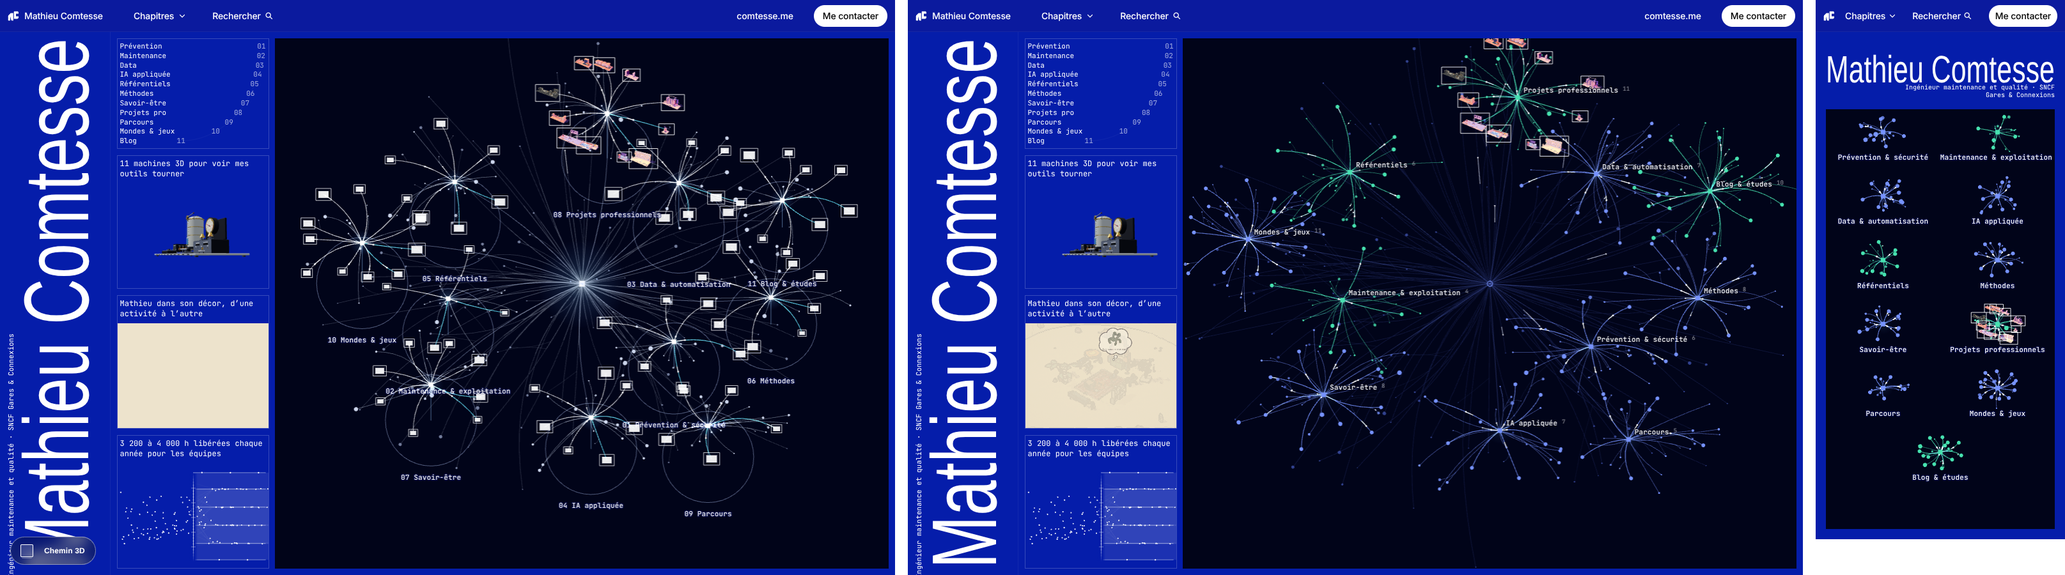
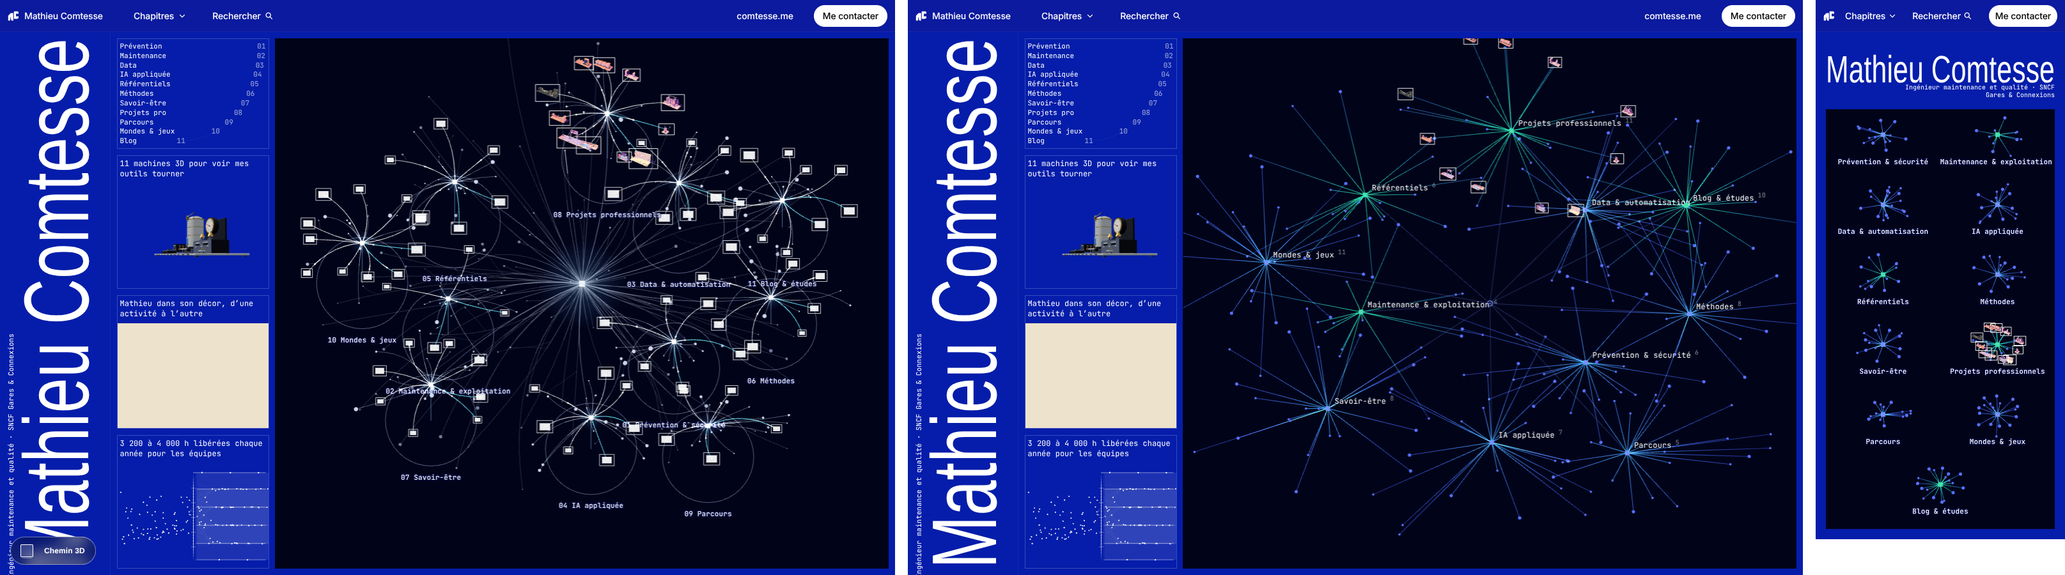
Graphe à plat recalé sur une observation directe de la référence à 1 400 × 900 : rayons droits et longs, dégradés, sans ramification ni halo, libellés 12 px, dérive lente des foyers ; tests des deux régimes ; moteur m27
Claude-Session: https://claude.ai/code/session_01BJ91hkuaPH9iCH1xUw74e3

Changed region(s): [[0.5882, 0.0622, 0.8669, 0.84], [0.8669, 0.2178, 0.9907, 0.9022]]

diff --git a/refonte/moteur.js b/refonte/moteur.js
@@ -322,6 +322,7 @@ export class Ciel {
       const N = e.noeuds, nb = N.length, cnt = this.cnt || (this.cnt = new Int16Array(16)); cnt.fill(0);
       for (let j = 0; j < nb; j++) {
         const n = N[j]; n.vis = false;
+        if (plat && (n.par || e.racine)) continue;                               // à plat : ni ramification ni gerbe centrale (observé sur la référence)
         let g = adouci((e.age - 0.15 - j * (e.racine ? 0.012 : 0.04) - (n.par ? 0.3 : 0)) / 0.8);
         if (n.par) { if (!n.par.vis) continue; g = Math.min(g, n.par.gg); }
         if (g <= 0) continue;
@@ -336,7 +337,8 @@ export class Ciel {
           if (this.pris && this.pris.noeud === n) { n.ox = souris.x - x; n.oy = souris.y - y; } else if (n.ox || n.oy) { n.ox *= retour; n.oy *= retour; if (Math.abs(n.ox) + Math.abs(n.oy) < 0.3) n.ox = n.oy = 0; }
           if (n.ox || n.oy) { x += n.ox; y += n.oy; }
           const dc = wc - c0, dr = wr - r0, len = Math.hypot(dc, dr) || 1;      // courbure dans le plan du sol, arche en hauteur : la branche est une vraie courbe de l'espace
-          cwC = c0 + dc * 0.5 - dr / len * n.cv * len; cwR = r0 + dr * 0.5 + dc / len * n.cv * len; cwH = (h0 + wh) * 0.5 + n.ar * len * 0.35;
+          const kc = plat ? 0 : 1;                                              // à plat les rayons sont droits (observé) ; courbure et arche en 3D
+          cwC = c0 + dc * 0.5 - dr / len * n.cv * kc * len; cwR = r0 + dr * 0.5 + dc / len * n.cv * kc * len; cwH = (h0 + wh) * 0.5 + n.ar * kc * len * 0.35;
           const Cq = proj(cwC, cwR, cwH);
           cx = Cq ? F.x + (Cq.x - F.x) * g : (F.x + x) / 2; cy = Cq ? F.y + (Cq.y - F.y) * g : (F.y + y) / 2;
           if (n.ox || n.oy) { cx += n.ox * 0.5; cy += n.oy * 0.5; }
@@ -367,10 +369,11 @@ export class Ciel {
       }
       /* 3. rayons fins et ramifications, par niveau et par classe de rendu : un seul tracé par lot, en mélange additif (le centre des foyers s'éclaire par recouvrement) */
       ctx.globalCompositeOperation = 'lighter';
+      const degrade = (m) => { const g = ctx.createRadialGradient(F.x, F.y, 0, F.x, F.y, Math.max(40, R * k)); g.addColorStop(0, `rgba(${vert ? '40,225,170' : '70,175,255'},${Math.min(1, 0.95 * m).toFixed(2)})`); g.addColorStop(0.45, `rgba(${vert ? '40,170,200' : '70,110,255'},${Math.min(1, 0.7 * m).toFixed(2)})`); g.addColorStop(1, `rgba(70,90,255,${Math.min(1, 0.5 * m).toFixed(2)})`); return g; };
       const BASE = e.racine ? (plat ? [0, 0.16, 0.1, 0.07] : [0, 0.2, 0.13, 0.09]) : plat ? [0, 0.55, 0.4, 0.3] : [0, 0.4, 0.29, 0.21], LW = [0, 0.8, 0.7, 0.6];   /* rayons fins et discrets : le centre des foyers ne sature pas */
       for (let lv = 3; lv >= 1; lv--) for (let cl = 0; cl < 4; cl++) {
         if (!cnt[lv * 4 + cl]) continue;
-        ctx.strokeStyle = `rgba(${plat ? (e.racine ? '96,124,255' : TE) : '225,238,255'},${Math.min(1, BASE[lv] * MULT[cl] * kE).toFixed(3)})`; ctx.lineWidth = LW[lv] * (cl === 2 ? 1.5 : 1); ctx.beginPath();
+        ctx.strokeStyle = plat ? degrade(MULT[cl] * kE) : `rgba(225,238,255,${Math.min(1, BASE[lv] * MULT[cl] * kE).toFixed(3)})`; ctx.lineWidth = (plat ? 1 : LW[lv]) * (cl === 2 ? 1.5 : 1); ctx.beginPath();
         for (let j = 0; j < nb; j++) { const n = N[j]; if (n.ed || !n.vis || n.niveau !== lv || n.cl !== cl) continue; ctx.moveTo(n.x0, n.y0); ctx.quadraticCurveTo(n.cx, n.cy, n.x1, n.y1); }
         ctx.stroke();
       }
@@ -385,11 +388,11 @@ export class Ciel {
         const actif = focus === n, gr = ctx.createLinearGradient(n.x0, n.y0, n.x1, n.y1), cy = j < 2, m = MULT[n.cl] * (n.cl === 0 ? kE : 1);
         gr.addColorStop(0, actif ? 'rgba(255,255,255,1)' : plat ? `rgba(${TE},${Math.min(1, 0.95 * m).toFixed(2)})` : cy ? `rgba(120,235,255,${Math.min(1, 1 * m).toFixed(2)})` : `rgba(255,255,255,${Math.min(1, 0.95 * m).toFixed(2)})`);
         gr.addColorStop(1, actif ? 'rgba(255,255,255,1)' : plat ? `rgba(${TE},${Math.min(1, 0.7 * m).toFixed(2)})` : cy ? `rgba(95,230,255,${Math.min(1, 0.7 * m).toFixed(2)})` : `rgba(255,255,255,${Math.min(1, 0.55 * m).toFixed(2)})`);
-        ctx.strokeStyle = gr; ctx.lineWidth = actif ? 2.4 : actifC ? 1.4 : 1.15; ctx.beginPath(); ctx.moveTo(n.x0, n.y0); ctx.quadraticCurveTo(n.cx, n.cy, n.x1, n.y1); ctx.stroke();
+        ctx.strokeStyle = plat && !actif ? degrade(m) : gr; ctx.lineWidth = actif ? 2.4 : plat ? 1 : actifC ? 1.4 : 1.15; ctx.beginPath(); ctx.moveTo(n.x0, n.y0); ctx.quadraticCurveTo(n.cx, n.cy, n.x1, n.y1); ctx.stroke();
         if (!compact && libre && !this.pris && souris.x > -1e3) { const d = this.distanceCourbe(n, souris.x, souris.y); if (d < dBranche && n.cl !== 3) { dBranche = d; brancheMeilleure = { noeud: n, etoile: e }; } }
       }
       /* 5. impulsions : le long des courbes réelles, transmises aux ramifications */
-      if (libre) for (let j = 0; j < nb; j++) {
+      if (libre && !plat) for (let j = 0; j < nb; j++) {                       // aucune impulsion visible à plat sur les captures de la référence
         const n = N[j]; if (!n.vis || n.par || n.gg < 1 || !(n.ed || n.pul)) continue;
         const q = (tt * 0.3 * n.vit + n.phase / 6.283) % 1;
         this.impulsion(ctx, n, q / 0.75);
@@ -398,8 +401,8 @@ export class Ciel {
       /* 6. extrémités des ramifications (points) */
       for (let lv = 1; lv <= 3; lv++) for (let cl = 0; cl < 4; cl++) {
         if (!cnt[lv * 4 + cl]) continue;
-        ctx.globalAlpha = A * Math.min(1, MULT[cl] * kE); ctx.fillStyle = plat ? (e.racine ? 'rgba(96,124,255,.5)' : `rgba(${TE},${lv === 1 ? 1 : 0.8})`) : e.racine ? 'rgba(200,215,255,.55)' : lv === 1 ? 'rgba(223,233,255,.9)' : lv === 2 ? 'rgba(223,233,255,.75)' : 'rgba(223,233,255,.6)'; ctx.beginPath();
-        for (let j = 0; j < nb; j++) { const n = N[j]; if (n.ed || !n.vis || n.niveau !== lv || n.cl !== cl) continue; const r = (n.taille || 1.6) * (e.racine ? 0.8 : 1) * Math.min(1.2, ech) * (lv === 1 ? 1 : lv === 2 ? 0.8 : 0.6); ctx.moveTo(n.x1 + r, n.y1); ctx.arc(n.x1, n.y1, r, 0, 6.283); }
+        ctx.globalAlpha = A * Math.min(1, MULT[cl] * kE); ctx.fillStyle = plat ? 'rgb(88,112,255)' : e.racine ? 'rgba(200,215,255,.55)' : lv === 1 ? 'rgba(223,233,255,.9)' : lv === 2 ? 'rgba(223,233,255,.75)' : 'rgba(223,233,255,.6)'; ctx.beginPath();
+        for (let j = 0; j < nb; j++) { const n = N[j]; if (n.ed || !n.vis || n.niveau !== lv || n.cl !== cl) continue; const r = plat ? 1.9 : (n.taille || 1.6) * (e.racine ? 0.8 : 1) * Math.min(1.2, ech) * (lv === 1 ? 1 : lv === 2 ? 0.8 : 0.6); ctx.moveTo(n.x1 + r, n.y1); ctx.arc(n.x1, n.y1, r, 0, 6.283); }
         ctx.fill();
       }
       ctx.globalAlpha = A;
@@ -408,15 +411,15 @@ export class Ciel {
         const n = N[j]; if (!n.ed || !n.vis) continue;
         const x = n.x1, y = n.y1, voile = n.cl === 3 ? 0.12 : 1;
         ctx.globalAlpha = voile * A;
-        const kv = 0.72 + (n.phase / 6.283) * 0.8, im = this.image(n.ed.image), w = (im ? 30 : 18) * kv * ech * (compact ? 0.62 : 1), h = (im ? 21 : 14) * kv * ech * (compact ? 0.62 : 1);
+        const kv = 0.72 + (n.phase / 6.283) * 0.8, im = this.image(n.ed.image), kp = 0.9 + 0.25 * (n.phase / 6.283), w = plat ? 22 * kp * (compact ? 0.8 : 1) : (im ? 30 : 18) * kv * ech * (compact ? 0.62 : 1), h = plat ? 17 * kp * (compact ? 0.8 : 1) : (im ? 21 : 14) * kv * ech * (compact ? 0.62 : 1);
         if (im) { ctx.drawImage(im, x - w / 2, y - h / 2, w, h); ctx.strokeStyle = 'rgba(255,255,255,.9)'; ctx.lineWidth = 1; ctx.strokeRect(x - w / 2, y - h / 2, w, h); }
-        else if (plat) { const actif = focus === n; ctx.fillStyle = actif ? '#fff' : `rgb(${TE})`; ctx.beginPath(); ctx.arc(x, y, actif ? 4.5 : 3, 0, 6.283); ctx.fill(); }   // à plat, un contenu sans image est un point ; il reste saisissable
+        else if (plat) { const actif = focus === n; ctx.fillStyle = actif ? '#fff' : 'rgb(88,112,255)'; ctx.beginPath(); ctx.arc(x, y, actif ? 4.5 : 2.6, 0, 6.283); ctx.fill(); }   // à plat, un contenu sans image est un point ; il reste saisissable
         else { ctx.strokeStyle = 'rgba(255,255,255,.75)'; ctx.lineWidth = 1; ctx.strokeRect(x - w / 2, y - h / 2, w, h); ctx.fillStyle = 'rgba(255,255,255,.92)'; ctx.fillRect(x - w / 3, y - h * 0.29, w * 2 / 3, h * 0.58); }
         if (voile === 1) { cibles.push({ x, y, noeud: n, etoile: e }); const d = Math.hypot(x - souris.x, y - souris.y); if (d < dSurvol) { dSurvol = d; survol = { noeud: n, x, y, etoile: e }; } }
         ctx.globalAlpha = A;
       }
       /* foyer et libellé */
-      if (!(plat && e.racine)) { const kH = plat ? 0.45 : 1, halo = Math.max(16, Math.min(70, (e.racine ? 0.2 : 0.17) * R * k)) * (actifC ? 1.25 : 1), gr = ctx.createRadialGradient(F.x, F.y, 0, F.x, F.y, halo); gr.addColorStop(0, `rgba(210,240,255,${Math.min(1, 0.4 * kE * kH).toFixed(2)})`); gr.addColorStop(0.35, `rgba(120,190,255,${Math.min(1, 0.14 * kE * kH).toFixed(2)})`); gr.addColorStop(1, 'rgba(80,140,255,0)'); ctx.globalCompositeOperation = 'lighter'; ctx.fillStyle = gr; ctx.beginPath(); ctx.arc(F.x, F.y, halo, 0, 6.283); ctx.fill(); ctx.globalCompositeOperation = 'source-over'; }
+      if (!plat) { const kH = 1, halo = Math.max(16, Math.min(70, (e.racine ? 0.2 : 0.17) * R * k)) * (actifC ? 1.25 : 1), gr = ctx.createRadialGradient(F.x, F.y, 0, F.x, F.y, halo); gr.addColorStop(0, `rgba(210,240,255,${Math.min(1, 0.4 * kE * kH).toFixed(2)})`); gr.addColorStop(0.35, `rgba(120,190,255,${Math.min(1, 0.14 * kE * kH).toFixed(2)})`); gr.addColorStop(1, 'rgba(80,140,255,0)'); ctx.globalCompositeOperation = 'lighter'; ctx.fillStyle = gr; ctx.beginPath(); ctx.arc(F.x, F.y, halo, 0, 6.283); ctx.fill(); ctx.globalCompositeOperation = 'source-over'; }
       const cote = (e.racine ? 9 : e.parent ? 7 : 9) * Math.min(1.25, Math.max(0.8, ech));
       if (plat && e.racine) { ctx.strokeStyle = 'rgba(125,152,255,.95)'; ctx.lineWidth = 1.2; ctx.beginPath(); ctx.arc(F.x, F.y, 4.2, 0, 6.283); ctx.stroke(); }   // foyer central : simple anneau
       else { ctx.fillStyle = plat ? `rgb(${TE})` : '#fff'; ctx.fillRect(F.x - cote / 2, F.y - cote / 2, cote, cote); }
@@ -425,9 +428,9 @@ export class Ciel {
         ctx.globalAlpha = a * A; ctx.fillStyle = '#fff'; ctx.strokeStyle = 'rgba(0,10,90,.55)'; ctx.lineWidth = 3; ctx.lineJoin = 'round';
         if (plat && e.parent && !compact) {                                      // à plat : nom contre le foyer, suivi du nombre de contenus en gris
           const nbEd = e.noeuds.filter((q) => q.ed).length;
-          ctx.font = '500 11px "JetBrains Mono",ui-monospace,monospace'; ctx.textAlign = 'left'; ctx.strokeStyle = 'rgba(1,4,25,.75)';
-          const l = ctx.measureText(e.label).width, tx = Math.min(F.x + cote / 2 + 6, W - l - 22), ty = F.y - cote / 2 - 4; ctx.strokeText(e.label, tx, ty); ctx.fillText(e.label, tx, ty);
-          ctx.font = '500 9px "JetBrains Mono",ui-monospace,monospace'; ctx.fillStyle = 'rgba(255,255,255,.5)'; ctx.fillText(String(nbEd), tx + l + 7, ty - 3);
+          ctx.font = '400 12px "JetBrains Mono",ui-monospace,monospace'; ctx.textAlign = 'left'; ctx.strokeStyle = 'rgba(1,4,25,.75)';
+          const l = ctx.measureText(e.label).width, tx = Math.min(F.x + cote / 2 + 7, W - l - 22), ty = F.y - cote / 2 - 4; ctx.strokeText(e.label, tx, ty); ctx.fillText(e.label, tx, ty);
+          ctx.font = '400 10px "JetBrains Mono",ui-monospace,monospace'; ctx.fillStyle = 'rgba(255,255,255,.5)'; ctx.fillText(String(nbEd), tx + l + 6, ty - 5);
           e.libelleEcran = { x: Math.round(tx), y: Math.round(ty), texte: e.label };
         } else if (e.sol) {                                                      // étoile posée : numéro et nom sous le cercle
           const bas = proj(c0, r0 + R * 0.7, 0) || F, texte = compact ? e.label : (e.num ? e.num + ' ' : '') + e.label;   // grille (petit écran) : le nom seul, sous le foyer

diff --git a/index.html b/index.html
@@ -557,7 +557,7 @@ html:not(.cv-parity-active) .cv-legacy .pc-hublot{margin-block:56px 96px}
   </div>
   <p class="pc-end">Fin du parcours · page W = 1 000 px</p>
 </div></article></div></div></div></section></div></div></main></div><!-- rmx:h:hfbc28820 --><!-- /rmx:h --></div><!-- rmx:h:h9cc3f896 --><span popover="manual" aria-hidden="true" class="shared-tooltip"><span class="shared-tooltip__bubble"><span class="shared-tooltip__track"><span class="block"></span><span class="pointer-events-none absolute inset-0 block select-none opacity-0"></span></span><span class="shared-tooltip__measure"></span></span></span><!-- /rmx:h --><!-- rmx:h:h710f11a5 --><span hidden=""></span><!-- /rmx:h --></div></div><script type="module">var cvLowEnd=matchMedia('(pointer:coarse)').matches||(navigator.hardwareConcurrency||8)<=4||(navigator.deviceMemory||8)<=4;   /* profil léger : résolution réduite, 30 images/s */
-import('./refonte/hero-graph.js?v=m11').then(m=>m.demarre(cvChapterRecords)).catch(e=>console.warn('graphe accueil',e));
+import('./refonte/hero-graph.js?v=m12').then(m=>m.demarre(cvChapterRecords)).catch(e=>console.warn('graphe accueil',e));
 const cvChapterRecords=[{"id":"agentic","index":0,"name":"Prévention & sécurité","colour":"#051DAA","cards":[{"title":"Analyse de risques","handle":"cv-0-0-analyse-de-risques","image":null},{"title":"Coactivité","handle":"cv-0-1-coactivite","image":null},{"title":"Plans de prévention","handle":"cv-0-2-plans-de-prevention","image":null},{"title":"Suivi des écarts","handle":"cv-0-3-suivi-des-ecarts","image":null},{"title":"Actions correctives","handle":"cv-0-4-actions-correctives","image":null},{"title":"Certification NEBOSH","handle":"cv-0-5-certification-nebosh","image":null}]},{"id":"sidekick","index":1,"name":"Maintenance & exploitation","colour":"#7000A9","cards":[{"title":"Suivi réglementaire","handle":"cv-1-0-suivi-reglementaire","image":null},{"title":"Vigilance équipements","handle":"cv-1-1-vigilance-equipements","image":null},{"title":"Pilotage des échéances","handle":"cv-1-2-pilotage-des-echeances","image":null},{"title":"Fiabilisation des données","handle":"cv-1-3-fiabilisation-des-donnees","image":null}]},{"id":"online","index":2,"name":"Data & automatisation","colour":"#B2005B","cards":[{"title":"Power BI","handle":"cv-2-0-power-bi","image":null},{"title":"Power Automate","handle":"cv-2-1-power-automate","image":null},{"title":"Excel","handle":"cv-2-2-excel","image":null},{"title":"HTML / JavaScript","handle":"cv-2-3-html-javascript","image":null},{"title":"Extraction PDF","handle":"cv-2-4-extraction-pdf","image":null},{"title":"OCR","handle":"cv-2-5-ocr","image":null},{"title":"JSON","handle":"cv-2-6-json","image":null}]},{"id":"merchandising","index":3,"name":"IA appliquée","colour":"#B03400","cards":[{"title":"Agents LLM","handle":"cv-3-0-agents-llm","image":null},{"title":"Compétences en Markdown","handle":"cv-3-1-competences-en-markdown","image":null},{"title":"Connecteurs & MCP","handle":"cv-3-2-connecteurs-mcp","image":null},{"title":"Mémoire sous Obsidian","handle":"cv-3-3-memoire-sous-obsidian","image":null},{"title":"Modèles à score de confiance","handle":"cv-3-4-modeles-a-score-de-confiance","image":null},{"title":"Serveur interne & LLM open source","handle":"cv-3-5-serveur-interne-llm-open-source","image":null},{"title":"Orchestration multi-modèles","handle":"cv-3-6-orchestration-multi-modeles","image":null}]},{"id":"retail","index":4,"name":"Référentiels","colour":"#051DAA","cards":[{"title":"ISO 9001","handle":"cv-4-0-iso-9001","image":null},{"title":"ISO 45001","handle":"cv-4-1-iso-45001","image":null},{"title":"ISO 14001","handle":"cv-4-2-iso-14001","image":null},{"title":"ISO 22301","handle":"cv-4-3-iso-22301","image":null},{"title":"ISO 27001 / 27002","handle":"cv-4-4-iso-27001-27002","image":null},{"title":"ISO 19443","handle":"cv-4-5-iso-19443","image":null}]},{"id":"payments","index":5,"name":"Méthodes","colour":"#00632E","cards":[{"title":"Lean Six Sigma Yellow Belt","handle":"cv-5-0-lean-six-sigma-yellow-belt","image":null},{"title":"Green Belt","handle":"cv-5-1-green-belt","image":null},{"title":"DMAIC","handle":"cv-5-2-dmaic","image":null},{"title":"SIPOC","handle":"cv-5-3-sipoc","image":null},{"title":"PDCA","handle":"cv-5-4-pdca","image":null},{"title":"Audit terrain","handle":"cv-5-5-audit-terrain","image":null},{"title":"Analyse des écarts","handle":"cv-5-6-analyse-des-ecarts","image":null},{"title":"Amélioration continue","handle":"cv-5-7-amelioration-continue","image":null}]},{"id":"operations","index":6,"name":"Savoir-être","colour":"#B2005B","cards":[{"title":"Curiosité","handle":"cv-6-0-curiosite","image":null},{"title":"Rigueur","handle":"cv-6-1-rigueur","image":null},{"title":"Autonomie","handle":"cv-6-2-autonomie","image":null},{"title":"Esprit critique","handle":"cv-6-3-esprit-critique","image":null},{"title":"Goût du détail","handle":"cv-6-4-gout-du-detail","image":null},{"title":"Détermination","handle":"cv-6-5-determination","image":null},{"title":"Apprendre en autonomie","handle":"cv-6-6-apprendre-en-autonomie","image":null},{"title":"Transmission","handle":"cv-6-7-transmission","image":null}]},{"id":"shop","index":7,"name":"Projets professionnels","colour":"#7000A9","cards":[{"title":"Point financier · Power Automate","handle":"cv-7-0-point-financier-power-automate","image":"https://comtesse.me/assets/figures/finance-light.webp"},{"title":"VRE · traitement par VM","handle":"cv-7-1-vre-traitement-par-vm","image":"https://comtesse.me/assets/figures/vm-light.webp"},{"title":"Reporteur Q18","handle":"cv-7-2-reporteur-q18","image":"https://comtesse.me/assets/figures/moteur-light.webp"},{"title":"Power Automate · chaîne des PP","handle":"cv-7-3-power-automate-chaine-des-pp","image":"https://comtesse.me/assets/figures/pp-light.webp"},{"title":"CERFA v3","handle":"cv-7-4-cerfa-v3","image":"https://comtesse.me/assets/figures/cerfa-light.webp"},{"title":"Extracteur VRE","handle":"cv-7-5-extracteur-vre","image":"https://comtesse.me/assets/figures/vre-light.webp"},{"title":"Lecteur VRE · modèle multimodal","handle":"cv-7-6-lecteur-vre-modele-multimodal","image":"https://comtesse.me/assets/figures/vrestudio-musicbox-light.webp"},{"title":"Power BI · PP & MOSO","handle":"cv-7-7-power-bi-pp-moso","image":"https://comtesse.me/assets/figures/powerbi-light.webp"},{"title":"Studio d’extracteurs PDF","handle":"cv-7-8-studio-d-extracteurs-pdf","image":"https://comtesse.me/assets/figures/studio-light.webp"},{"title":"Retrouver tout le suivi","handle":"cv-7-9-retrouver-tout-le-suivi","image":"https://comtesse.me/assets/figures/suivi-light.webp"},{"title":"Gares prioritaires","handle":"cv-7-10-gares-prioritaires","image":"https://comtesse.me/assets/figures/gares-light.webp"}]},{"id":"marketing","index":8,"name":"Parcours","colour":"#B03400","cards":[{"title":"Ingénieur Maintenance & Qualité","handle":"cv-8-0-ingenieur-maintenance-qualite","image":null},{"title":"Technicien supérieur de la circulation ferroviaire","handle":"cv-8-1-technicien-superieur-de-la-circulation-ferroviaire","image":null},{"title":"Master 2 MQSE","handle":"cv-8-2-master-2-mqse","image":null},{"title":"Master d’histoire","handle":"cv-8-3-master-d-histoire","image":null},{"title":"CPGE ECE, puis Baccalauréat ES","handle":"cv-8-4-cpge-ece-puis-baccalaureat-es","image":null}]},{"id":"fulfillment","index":9,"name":"Mondes & jeux","colour":"#00632E","cards":[{"title":"THALEOLITHIC","handle":"cv-9-0-thaleolithic","image":null},{"title":"Lettres machines","handle":"cv-9-1-lettres-machines","image":null},{"title":"Contrôle de ligne","handle":"cv-9-2-controle-de-ligne","image":null},{"title":"LIMEN","handle":"cv-9-3-limen","image":null},{"title":"Nacre","handle":"cv-9-4-nacre","image":null},{"title":"Labyrinthe","handle":"cv-9-5-labyrinthe","image":null},{"title":"Route & vigilance","handle":"cv-9-6-route-vigilance","image":null},{"title":"Arène des arcanes","handle":"cv-9-7-arene-des-arcanes","image":null},{"title":"Sandboard","handle":"cv-9-10-sandboard","image":null},{"title":"Pixels","handle":"cv-9-11-pixels","image":null},{"title":"Fond d’écran Gouache","handle":"cv-9-12-fond-d-ecran-gouache","image":null}]},{"id":"developer","index":10,"name":"Blog & études","colour":"#0F0F0F","cards":[{"title":"Point financier · Power Automate","handle":"cv-10-0-point-financier-power-automate","image":null},{"title":"VRE · traitement par VM","handle":"cv-10-1-vre-traitement-par-vm","image":null},{"title":"Reporteur Q18","handle":"cv-10-2-reporteur-q18","image":null},{"title":"Power Automate · chaîne des PP","handle":"cv-10-3-power-automate-chaine-des-pp","image":null},{"title":"CERFA v3","handle":"cv-10-4-cerfa-v3","image":null},{"title":"Extracteur VRE","handle":"cv-10-5-extracteur-vre","image":null},{"title":"Power BI · PP & MOSO","handle":"cv-10-6-power-bi-pp-moso","image":null},{"title":"Studio d’extracteurs PDF","handle":"cv-10-7-studio-d-extracteurs-pdf","image":null},{"title":"Retrouver tout le suivi","handle":"cv-10-8-retrouver-tout-le-suivi","image":null},{"title":"Gares prioritaires","handle":"cv-10-9-gares-prioritaires","image":null}]}];
 // Export actual triangle volumes to Shopify's shared WebGPU renderer.
 // The 2D renderer stays responsible for textures, labels and the accessible DOM.
@@ -1009,7 +1009,7 @@ function openCvCardFocus(el,details){
 // // Shopify supplies the camera, fold, hinge animation, outlines and mathematical labels.
 // Only the DOM/Three rendering adapter is local; all coordinates remain native CSS pixels.
 async function startParityPath(){
- const [T,N]=await Promise.all([import('three'),import(base+'refonte/moteur.js?v=m26')]),source=q('[data-f26-page]');if(!source)return;
+ const [T,N]=await Promise.all([import('three'),import(base+'refonte/moteur.js?v=m27')]),source=q('[data-f26-page]');if(!source)return;
  const header=q('.cv-site-nav');if(header)document.body.append(header);
  const sourceMinHeight=source.style.minHeight;
  await document.fonts?.ready;const headingFont=N.cvFont();

diff --git a/refonte/hero-graph.js b/refonte/hero-graph.js
@@ -2,7 +2,7 @@
  * dessiné ici dans un canevas 2D posé dans la zone du graphe, avec une projection oblique (la hauteur décale vers le haut).
  * Un foyer par chapitre du site ; ses vignettes sont ses vrais contenus (cliquables, elles y mènent) ; les autres points et
  * ramifications sont purement graphiques et n'ont ni lien ni libellé. */
-import { Ciel } from './moteur.js?v=m26';
+import { Ciel } from './moteur.js?v=m27';
 
 export function demarre(chapitres) {
   const zone = document.querySelector('.hero-entrance-hold'); if (!zone || zone.querySelector('.cv-hero-graph')) return;
@@ -54,7 +54,14 @@ export function demarre(chapitres) {
       /* dernière rangée incomplète : centrée */
       chapitres.forEach((r, k) => { const reste = n - Math.floor(k / cols) * cols, cx = (k % cols + 0.5 + (reste < cols ? (cols - reste) / 2 : 0)) * cw, cy = (Math.floor(k / cols) + 0.42) * ch;
         ciel.place('accueil:' + r.id, [W / 2 + (cx - W / 2) * ouvre, H / 2 + (cy - H / 2) * ouvre, 10], R); });
-    } else ciel.place('accueil', [W / 2, H * 0.53, Math.min(H * 0.12, 90)], Math.min(W * 0.44, H * 0.55) * ouvre);
+    } else {
+      /* grand écran (mesuré sur la référence à 1 400 × 900) : foyers répartis sur tout le cadre, rayons longs (jusqu'au tiers de la largeur),
+         dérive lente de chaque foyer (de l'ordre d'un pixel par seconde ; immobile en mouvement réduit) */
+      const R0 = Math.min(W * 0.41, H * 0.5), ts = reduit.matches ? 0 : t / 1000;
+      ciel.place('accueil', [W / 2, H * 0.5, 0], R0 * ouvre);
+      chapitres.forEach((r, k) => { const e = ciel.etoiles.get('accueil:' + r.id); e.rayon = R0 * 0.52; e.centre[2] = 0;
+        e.centre[0] += Math.sin(ts * 0.05 + k * 1.7) * R0 * 0.035; e.centre[1] += Math.cos(ts * 0.043 + k * 2.3) * R0 * 0.035; });
+    }
     ctx.setTransform(dpr, 0, 0, dpr, 0, 0); ctx.clearRect(0, 0, W, H);
     ciel.dessine(ctx, proj, reduit.matches ? null : t / 1000, { souris, W, H, dt, compact: grille, plat: true });
   }

diff --git a/docs/reference/fall26-matrice-pr209.md b/docs/reference/fall26-matrice-pr209.md
@@ -582,3 +582,24 @@ Constat : les commits `c62c36b` et `25ef8fc` (branche `claude/fall26-preuves-pr2
 Sous 940 px la référence n'a pas de bouton de mode expo : le site le retire aussi de l'écran (décision de l'auteur : interface alignée sur la référence). Le mode 3D mobile reste dans le code et dans les tests, sans commande visible ; la réserve de 56 px de la grille est supprimée.
 
 Tests : `test-modes` PASS (24 contrôles, dont rendu à plat, transitions, bouton, libellé de survol, grille), `test-branches`, `test-entrypoints`, `test-no-shopify --strict`, `test-defilement`, `test-objets-3d`, `test-site-consistency` PASS. Capture : `docs/fall26-evidence/accueil-graphe-plat-avant-apres.png` (avant, après à 1 400 px, après à 390 px).
+
+## Observation directe de la référence à 1 400 × 900 et recalage du graphe à plat
+
+Banc : Chromium sans tête (rendu logiciel), page publique `https://www.shopify.com/editions/fall2026`, fenêtre 1 400 × 900, captures à 3, 6, 10, 15, 22 et 30 s après le chargement. Les captures de la référence ne sont pas versées dans le dépôt. Aucune vidéo : les animations sont déduites de l'écart entre deux captures.
+
+| Effet | Mesure sur la référence | Avant | Maintenant | État |
+|---|---|---|---|---|
+| Forme des rayons, à plat | segments droits, 1 px, aucune ramification, aucune gerbe au centre (seuls des traits vers les foyers) | courbes, ramifications sur trois niveaux, 120 rayons au centre | droits, sans ramification ni rayon central ; courbes et ramifications conservées en 3D, où elles avaient été observées | CORRIGÉ (OBSERVÉ) |
+| Longueur des rayons | environ 110 à 330 px pour un cadre de 945 px | 37 à 150 px | 65 à 260 px (rayon de foyer porté à 52 % de l'envergure) | CORRIGÉ (OBSERVÉ, réglé pour rester dans le cadre) |
+| Couleur des rayons | clair et turquoise au foyer, bleu vers l'extrémité ; quelques foyers verts | teinte uniforme | dégradé radial par foyer, un foyer sur trois vert | CORRIGÉ (OBSERVÉ ; choix des foyers verts arbitraire) |
+| Extrémités | points bleus d'environ 2 px, y compris pour les foyers verts | points de 1 à 3 px, verts pour les foyers verts | points bleus de 1,9 px ; contenus sans image en points de 2,6 px | CORRIGÉ (OBSERVÉ) |
+| Halo des foyers | aucun | halo lumineux | aucun à plat | CORRIGÉ (OBSERVÉ) |
+| Impulsions sur les rayons | aucune visible sur les deux captures stabilisées | impulsions blanches | retirées à plat, conservées en 3D | CORRIGÉ (INFÉRÉ : deux images fixes seulement) |
+| Vignettes | environ 20 px de côté, bord blanc | 22 à 46 px | 20 à 25 px × 15 à 20 px | CORRIGÉ (OBSERVÉ) |
+| Libellés | nom à droite du foyer, environ 12 px ; nombre gris en exposant, environ 10 px | 11 px et 9 px | 12 px et 10 px | CORRIGÉ (OBSERVÉ à l'œil, à un pixel près) |
+| Disposition | foyers répartis sur tout le cadre, anneau au centre du cadre | foyers dans un disque, centre à 53 % de la hauteur, foyers surélevés | envergure de 41 % de la largeur, centre au milieu, foyers à hauteur nulle | CORRIGÉ (positions exactes non reprises : elles dépendent des contenus) |
+| Dérive des foyers | 5 à 20 px de déplacement entre 10 s et 30 s, soit de l'ordre de 0,3 à 1 px/s | foyers fixes | dérive sinusoïdale lente (amplitude 3,5 % de l'envergure, au plus 0,7 px/s), immobile en mouvement réduit | CORRIGÉ (OBSERVÉ pour l'ordre de grandeur ; la loi du mouvement est INFÉRÉE) |
+| Apparition du graphe | cadre noir à 3 s, graphe complet à 10 s | croissance échelonnée des rayons | inchangé | NON DOCUMENTÉ (étapes intermédiaires non capturées) |
+| Réaction au pointeur | non observée | fuite des nœuds, inclinaison du plan | inchangées | NON DOCUMENTÉ |
+
+`tools/test-branches.mjs` vérifie maintenant les deux régimes : à plat, 249 rayons droits sur 249, aucune ramification ; en 3D, courbes (seuil de 80 %, les petites branches lointaines passant sous 0,8 px en perspective) et raccords exacts. `tools/test-modes.mjs` : le contrôle du retour d'un nœud relâché porte sur la stabilité à moins de 25 px (le retour est devenu plus rapide que le premier relevé).
